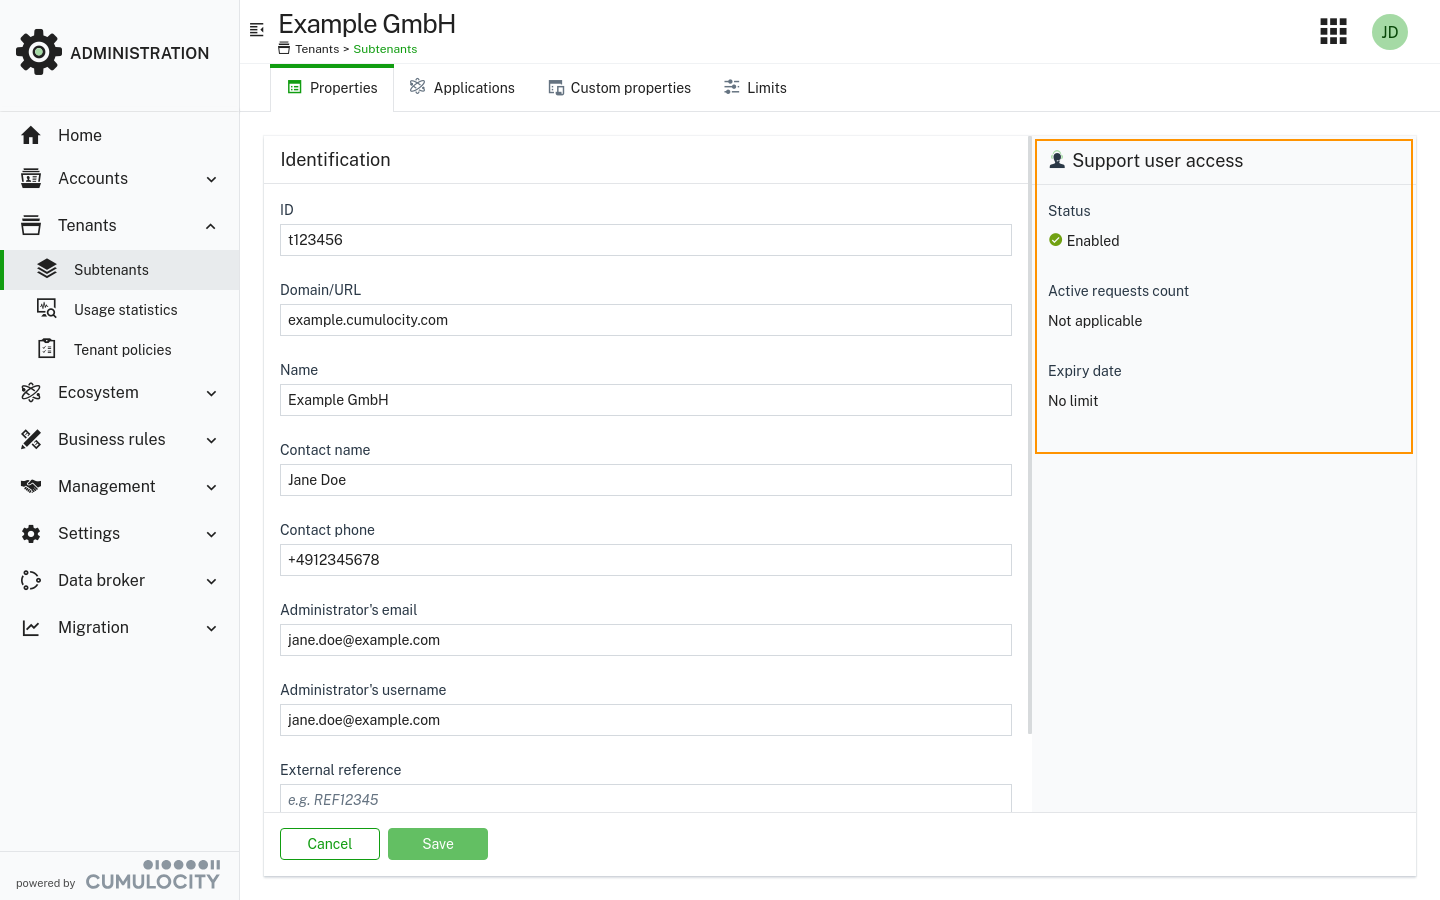
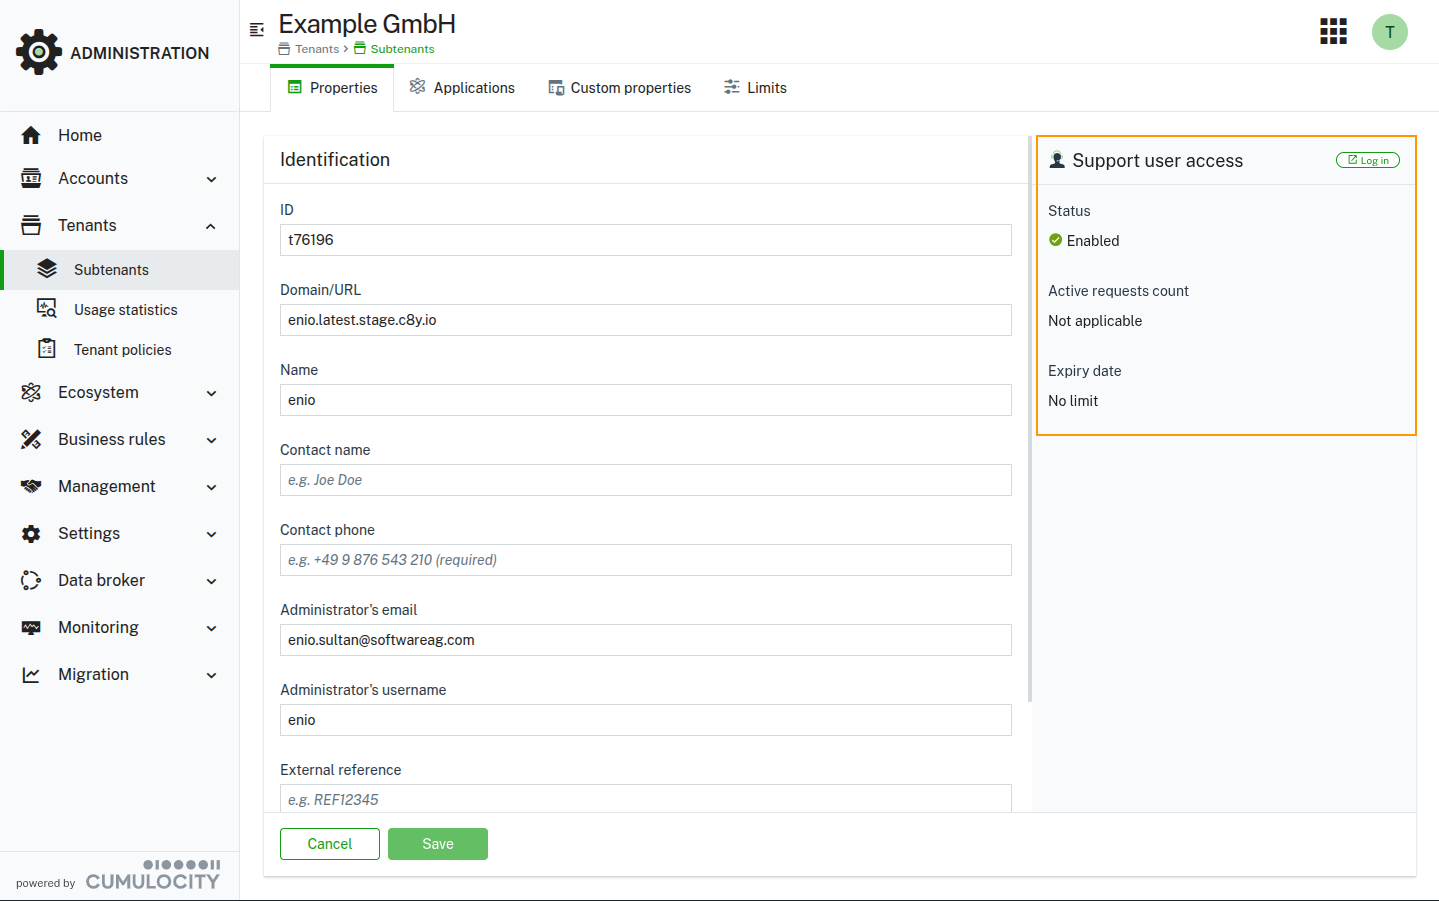
Update managing subtenants section.

diff --git a/content/enterprise-tenant/managing-tenants-bundle/managing-subtenants.md b/content/enterprise-tenant/managing-tenants-bundle/managing-subtenants.md
@@ -165,6 +165,10 @@ The following information is displayed here:
 </tbody>
 </table>
 
+{{<c8y-admon-info>}}
+The **Support user access** Log in button is available only when support user access is enabled and the user has the required permissions in the management tenant. For more details, refer to [Support user access](/enterprise-tenant/support-user-access)
+{{</c8y-admon-info>}}
+
 ### To suspend a subtenant {#to-suspend-a-subtenant}
 
 Suspending a tenant blocks any access to this tenant, regardless whether the access is from devices, users or other applications. In addition, all its microservices are undeployed, and if the tenant is reactivated all its microservices are re-deployed.
